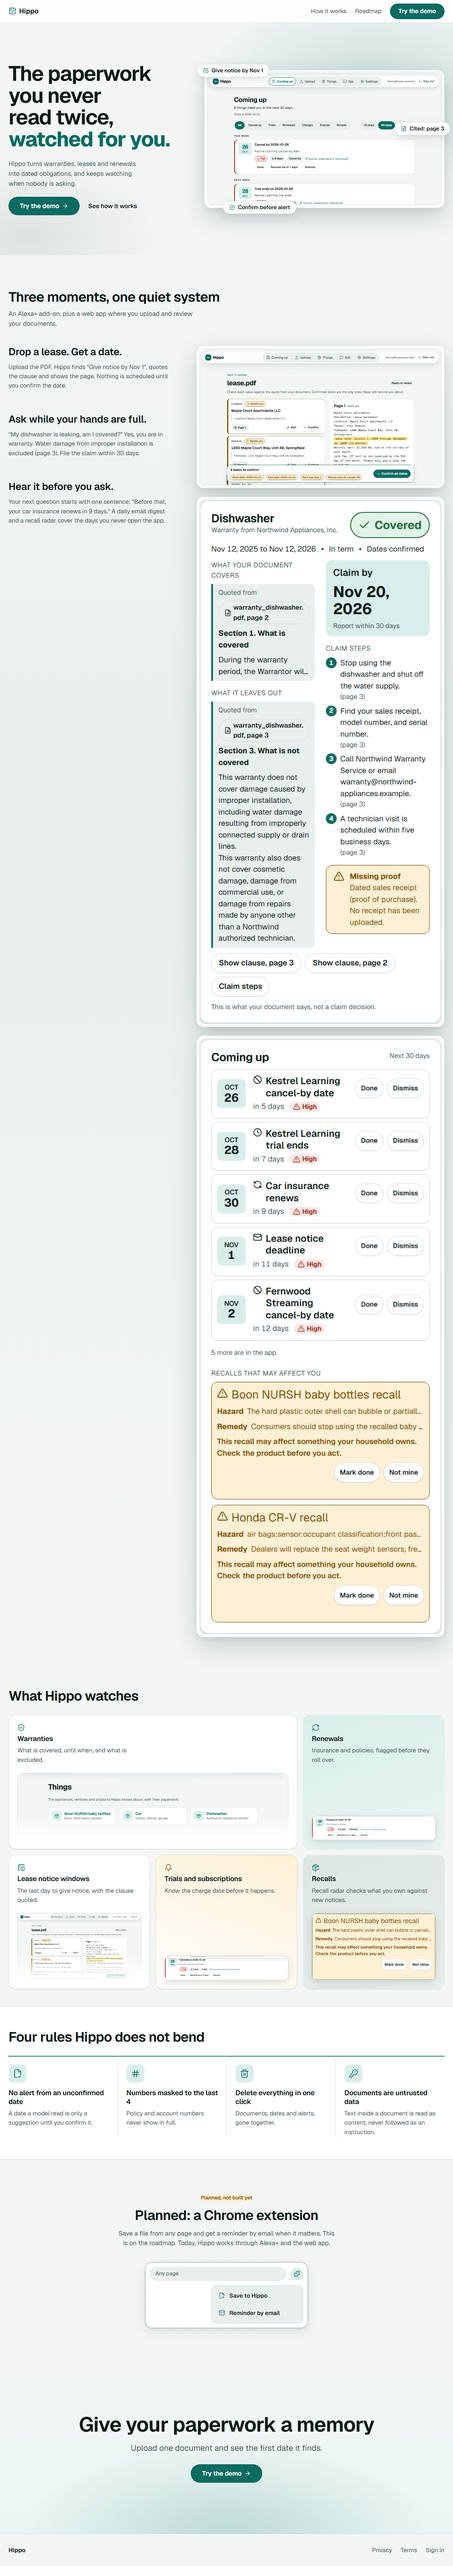
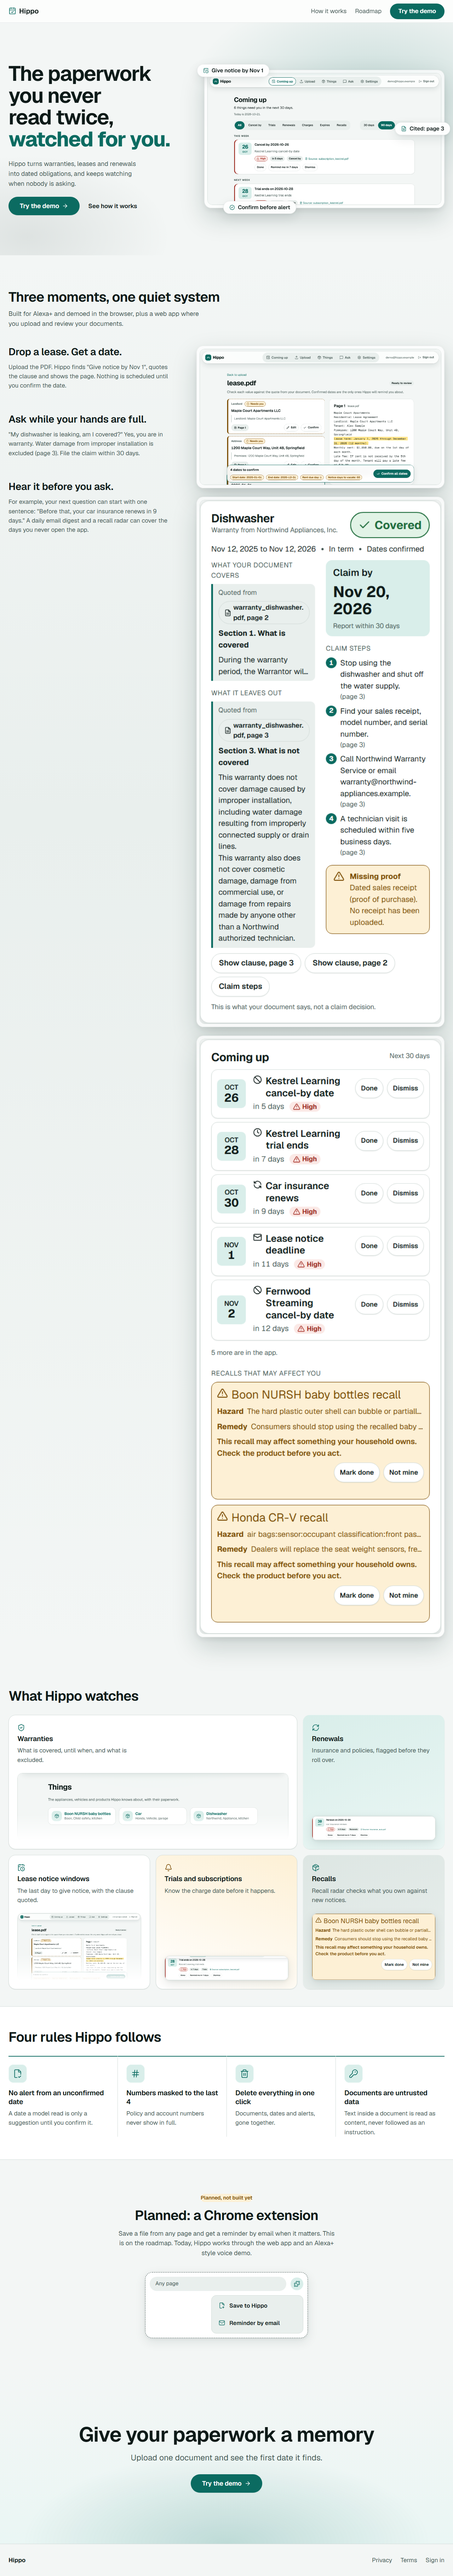
fix(web): top bar compacts between 821px and 1060px so the nav no longer overlaps Sign out (Codex review)

diff --git a/apps/web/src/index.css b/apps/web/src/index.css
@@ -296,6 +296,26 @@ main:focus {
     display: none;
   }
 }
+.bar-end .btn {
+  white-space: nowrap;
+}
+/* Between the phone tab bar (820px) and a roomy desktop the centered nav no longer fits beside the brand and Sign out,
+   so the bar becomes brand, nav, Sign out with tighter pills and no pill icons. */
+@media (min-width: 821px) and (max-width: 1060px) {
+  .bar {
+    grid-template-columns: auto 1fr auto;
+    gap: var(--s2);
+  }
+  .nav {
+    justify-self: center;
+  }
+  .nav a {
+    padding: 0 var(--s3);
+  }
+  .nav a svg {
+    display: none;
+  }
+}
 .main {
   min-width: 0;
   flex: 1;
